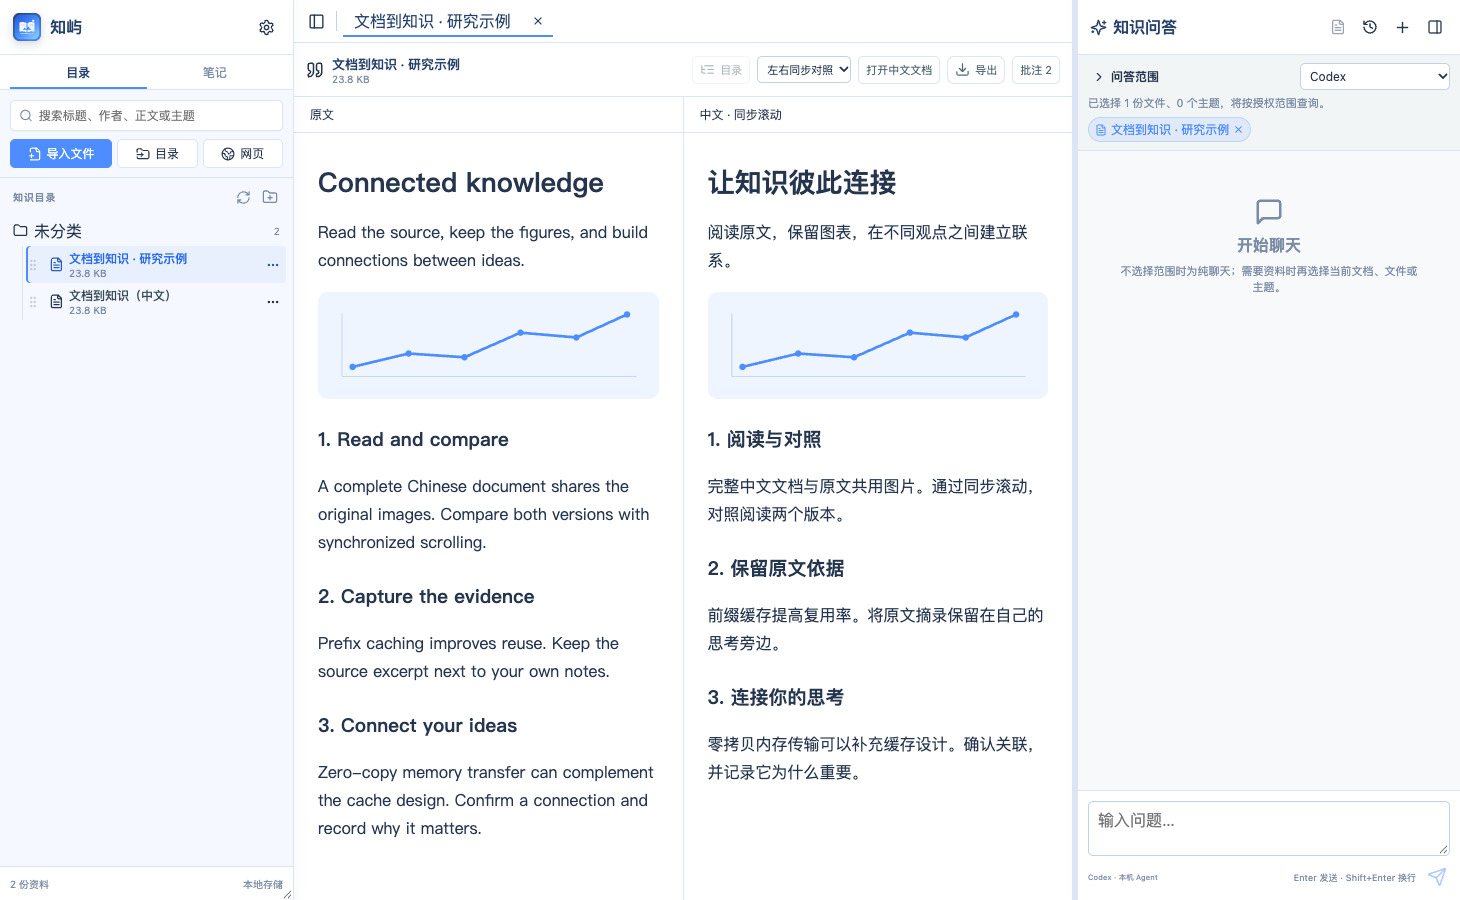
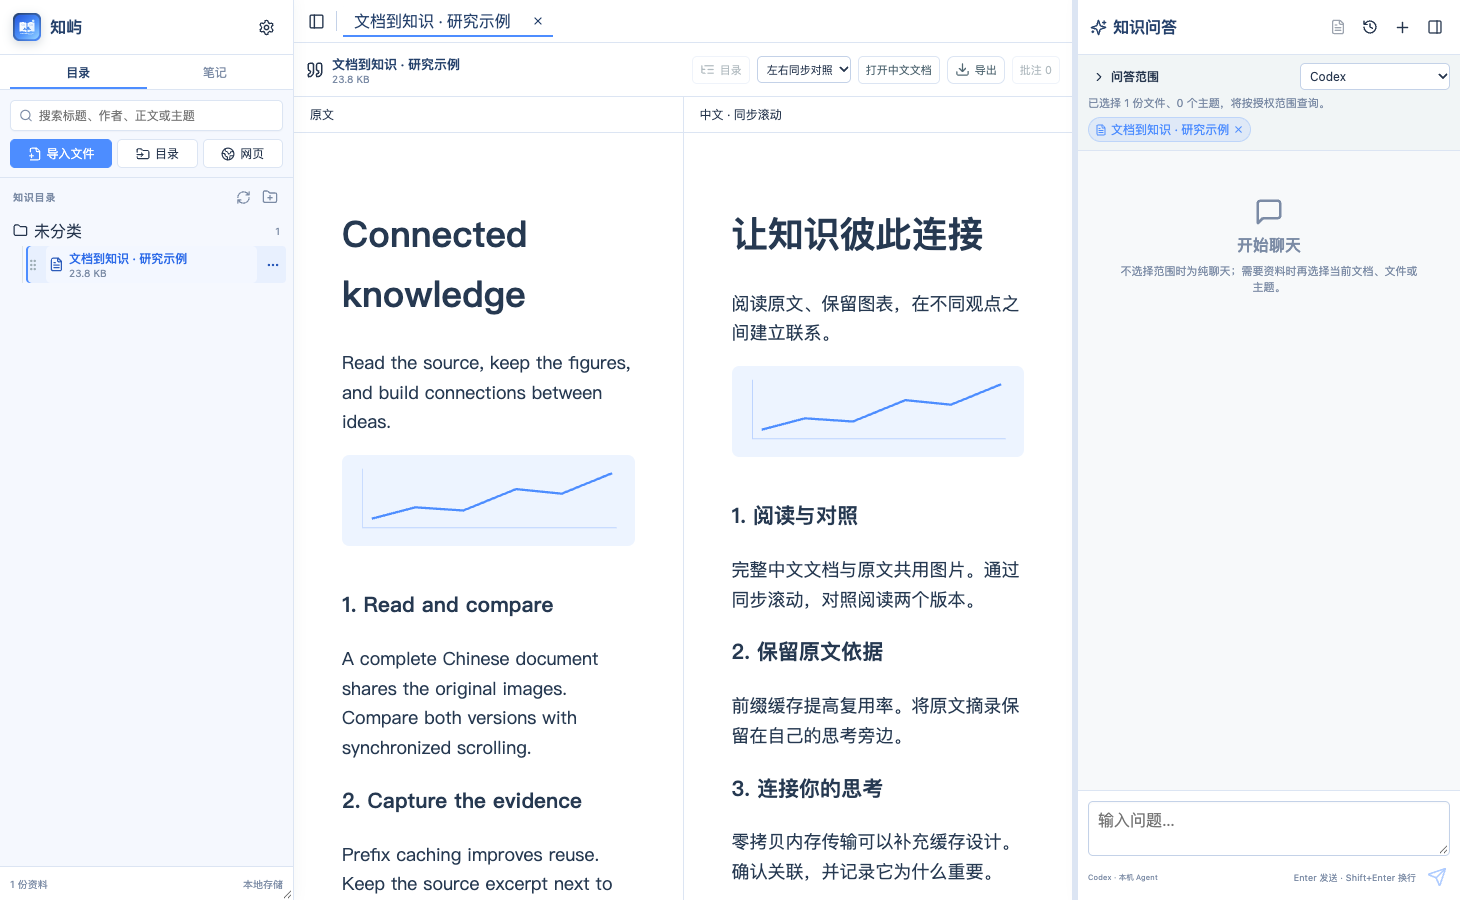
ci: retain portable app and rebuild tagged releases [skip ci]

diff --git a/docs/HANDOFF.md b/docs/HANDOFF.md
@@ -11,11 +11,13 @@
 - **授权与分支**：用户要求翻译方式支持 API / 可用 Agent、中英文检索合并到原文、提交 GitHub 并发布新版 macOS / Windows 免安装版。继续在 `main`，开始时工作区干净、HEAD / origin/main 均为 `efa95a013c57e39306b7ccf0a3b57c0000300426`。版本文件已统一为 **0.3.0**；功能提交 `f21fc1255afcdd6847c3a7f44e981d6d2920179b` 已推送 `main`，新建并推送 annotated `v0.3.0` 标签，下面历史节的旧状态不代表本轮状态。
 - **翻译执行**：设置新增 `translationBackend`，旧配置缺字段默认为 `direct`，与 `chatBackend` 独立。可选检测到的 Claude Code / Codex，复用 `agent.rs::run_agent()`，每批使用独立临时工作区与全新会话，只传文本 JSON，不选择资料库文件/批注；无需应用 API Key。复用相同的完整性校验与保存流程。API / Agent 每批 180 秒超时；Agent 进程 drop 时终止，翻译包装器移除进程登记并清理临时工作区。失败明确提示、不自动换后端；取消沿用结束当前批次后停止、不保存半篇译文。
 - **检索与目录**：`KnowledgeData.translationSources` 是译文 ID → 原文 ID 的派生映射；`store::load_data()` 从既有 `source/index/translations/<source-id>.json` 读取并验证源 ID、SHA 与目标存在性，兼容已有译文，无须升级 SQLite schema（仍为 2）或 data version（仍为 8）。`translation::save()` 即时补映射，删除文档清理映射。`search_documents()` 检索原文与中文独立索引后映射回原文并去重；`LibrarySidebar` 仅目录数据过滤关联译文，笔记页仍获得完整数据，阅读器仍可打开中文文档。删除原文后保留译文恢复独立显示/检索。
-- **验证**：`npm test` **8 文件 / 41 passed**；`npm run build` 成功，主 JS 1,407.24 kB / gzip 426.70 kB，原有 chunk / PDF.js 导入提示保留。`cargo test --locked --manifest-path src-tauri/Cargo.toml --offline` **52 passed / 1 ignored**，新增断言覆盖默认后端、可用 Agent 选择、聊天设置独立、双语命中去重、重启恢复既有译文映射、删除与重建。Clippy 完成，仅原有 5 条 warning；workflow YAML 解析、diff 检查通过。未连接真实翻译服务或 CLI 登录验证翻译质量，未做 Windows UI 真机验收。
+- **验证**：`npm test` **8 文件 / 41 passed**；`npm run build` 成功，主 JS 1,407.24 kB / gzip 426.70 kB，原有 chunk / PDF.js 导入提示保留。`cargo test --locked --manifest-path src-tauri/Cargo.toml --offline` **52 passed / 1 ignored**，新增断言覆盖默认后端、可用 Agent 选择、聊天设置独立、双语命中去重、重启恢复既有译文映射、删除与重建。Clippy 完成，仅原有 5 条 warning；workflow YAML 解析、diff 检查通过。Chrome + 真实 React App / mock IPC 的合成资料复查无页面错误，目录中原文与译文共存但只显示 1 行原文；已更新 `docs/images/bilingual-reading.png` 并增加 `translation-settings.png`，各 1460×900，两份 README 增加翻译设置图示。临时预览源码和 Vite 已清理。未连接真实翻译服务或 CLI 登录验证翻译质量，未做 Windows UI 真机验收。
[1 lines of base64/hex data omitted]
 - **发布流水线**：保留 DMG / Windows NSIS / 单独 portable EXE，新增 macOS app ZIP 与 Windows ZIP（含平台说明）；CI 校验 Mac 解压后签名、Windows 解压后 exe SHA-256 一致。README 双语更新翻译方式、检索行为及下载方式，现有示意图保留。`docs/PORTABLE.txt` 说明现有资料路径、schema 1→2 备份、WebView2 和未签名限制。
 - **历史 CI 更正**：`42177817863` 已完成，Windows success / macOS cancelled，整次 conclusion cancelled；未作为本次发布通过证据。
-- **工作区 / 下一步**：代码、版本、README、CI 已随 `f21fc125` 提交推送，包在 ignored `release/`，不进 Git；本文现为推送后的未暂存状态补记。生产模式 Rust 库测试同样 52 passed / 1 ignored。标签流水线 [42179993963](https://github.com/hkcao/KnowledgeMaster/actions/runs/42179993963) 已启动，Windows 运行中；macOS 在启动前被 GitHub 取消，annotation 为 `The configuration macos-14-arm64-us-default is not supported`（原消息含单引号）；同一提交的分支重复任务 `42179993701` 已主动取消，发布以标签任务为准。GitHub 官方确认 macOS 14 runner 已于 2026-11-02 停用；仅将 matrix runner 改为仍受支持的 `macos-15`（Apple Silicon），不改变 app 的 macOS 14 最低版本。此修复和本文待单独提交 main；保留不可变 v0.3.0 标签。修复后的 main CI 构建应用源码与标签一致，仅 workflow / handoff 不同。等待 main 的 Mac 包和原标签 Windows OCR smoke / 包完成，人工汇总至 v0.3.0 Release，并核验线上资产后更新本节。不得把本地包当作公开 Release。
+- **CI 失败及修复**：标签流水线 `42179993963` 的 Windows job **success**（含真实 OCR 安装/推理及 portable ZIP 哈希检查）；Mac 因 runner 退役取消，release skipped。切换 `macos-15` 的 main 任务 `42180321043` 两平台前端 / Rust debug+release 测试和原生构建均通过，Windows job success，但 Mac ZIP 阶段失败：`ditto: Cannot get the real path for source .../知屿 KnowledgeMaster.app`。完整日志显示 Tauri `--bundles dmg` 会在生成 DMG 后清理 `.app`；现改 matrix 为 **app,dmg**，本地普通沙箱完成 app 构建但 `bundle_dmg.sh` 失败（无详细 stderr）；请求系统权限验证 DMG 的自动审批超时，命令未执行，未认定其不安全。改由云端验证 app,dmg 串联。此前仅本地测 app 包、未测 CI 的 dmg→zip 串联，漏掉此差异。
+- **发布与下载恢复**：Release `v0.3.0` 草稿已创建并上传本地严格验签通过的 Mac ZIP（尚未公开）。从 Actions 下载 Windows 附件连续经本机代理、提权代理与直连均长期无进展，已终止这三次本次任务进程；不改动系统代理。`gh run view --log-failed` 默认缓存路径被沙箱拒绝，改用 `XDG_CACHE_HOME=/tmp/km-gh-cache` 后获得日志。新增 workflow_dispatch `release_tag`，使用当前 workflow 定义但 checkout 不可变版本标签，验证 tag 与 package.json 版本一致后重跑两平台、Windows OCR smoke 并由 runner 直接汇总上传；添加 SHA256SUMS.txt，避免本机下载成为发布依赖。
+- **工作区 / 下一步**：功能随 `f21fc125` 推送 main / v0.3.0，runner 修复随 `f2137266` 推送；包在 ignored `release/` 不进 Git。当前 workflow app,dmg / dispatch 修复、README 两张图和本文为未暂存修改；临时 UI 源码和 Vite 已清理。提交 main（skip ci 避免重复构建），对 v0.3.0 触发新版 workflow_dispatch 在云端验证 app,dmg，等两平台与发布上传 job success，核对资产 digest / checksums 后公开草稿，再记录最终 Git/Release 状态。不得移动已有标签或将本地包当作公开 Release。
 
 ## 0. 首轮 Windows PDF 刷新闪退修复（2026-10-26）
 

diff --git a/README.en.md b/README.en.md
@@ -18,6 +18,12 @@ Choose full Chinese translation during import or translate an existing document 
 
 ![Original and Chinese documents side by side with shared figures and synchronized scrolling](docs/images/bilingual-reading.png)
 
+### Choose the translation backend independently
+
+In Settings, choose direct API (default) or a detected Claude Code / Codex CLI for translation, independently from chat. Search covers both languages and opens the original; the directory lists one article.
+
+![Document translation settings are independent from chat and default to direct API](docs/images/translation-settings.png)
+
 ### Click a note to expand only that item
 
 Search notes and annotations directly. Clicking a card expands its content, source excerpt, and editing actions in the list; clicking again collapses it. The current document stays open, and the graph does not open automatically.

diff --git a/README.md b/README.md
@@ -18,6 +18,12 @@
 
 ![原文与中文译文左右对照，共用图表并同步滚动](docs/images/bilingual-reading.png)
 
+### 独立选择翻译方式
+
+在“设置 → 文档翻译”中选择直接 API（默认）或已检测到的 Claude Code / Codex；聊天后端独立设置。中英文正文都可搜索，结果定位到原文，目录只列出一份文章。
+
+![文档翻译方式独立于聊天后端，默认使用直接 API](docs/images/translation-settings.png)
+
 ### 点击笔记，只展开这一条
 
 笔记与批注可直接搜索。点击卡片在列表内展开正文、摘录与编辑操作，再次点击收起；当前阅读文档保持不变，不会自动进入知识图谱。
